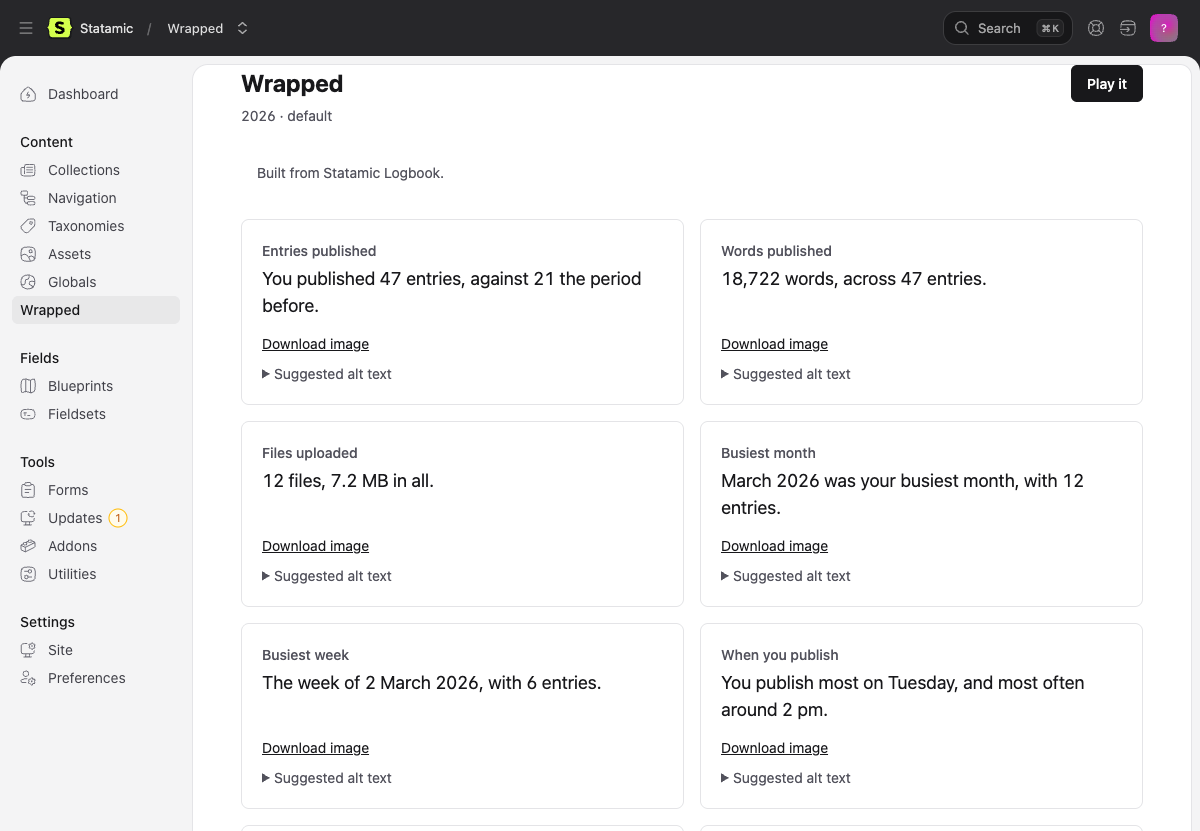
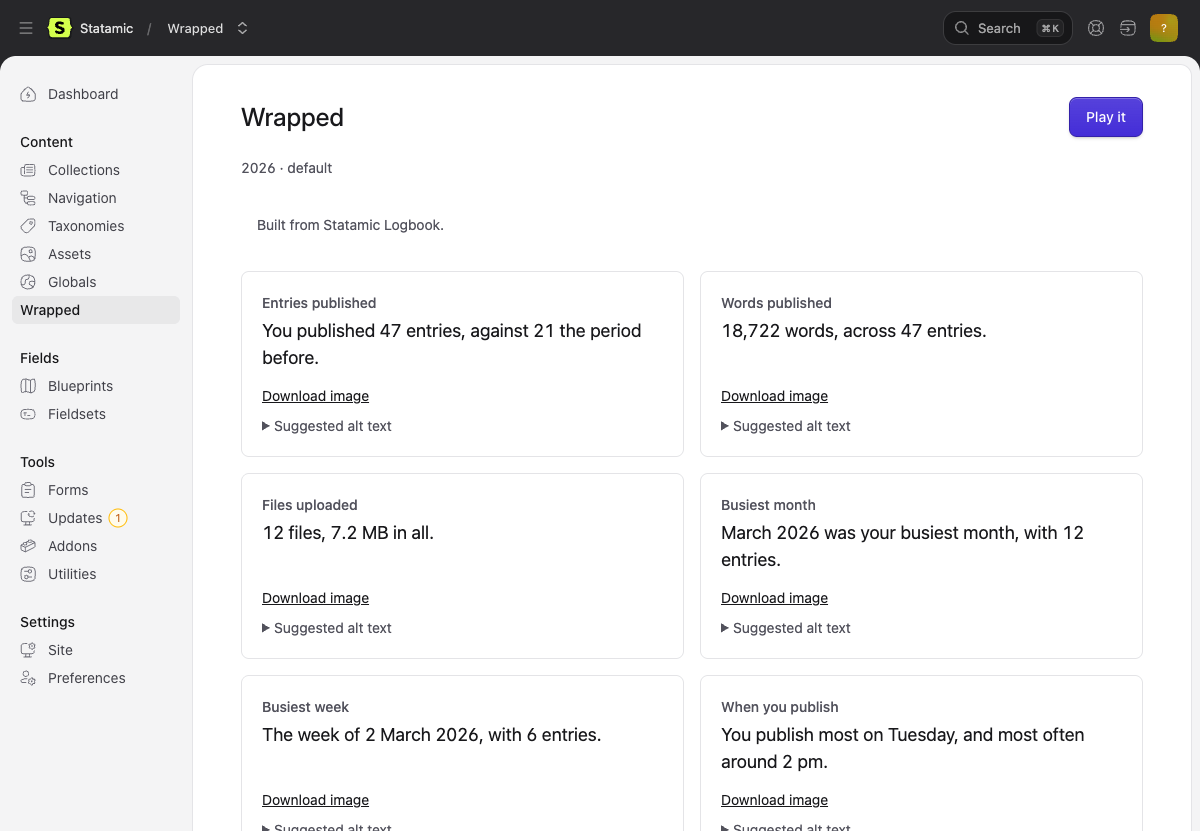
Use Statamic's own Header and Button on the Wrapped screen
The hand-styled button sat flush against the top bar and looked like a
visitor. Statamic exposes its Header and Button components to addons, which is
how its own screens get their title row and primary button; the page and the
video maker now use those and the lookalike CSS is gone.

Claude-Session: https://claude.ai/code/session_01Vbd6cMHAY7dJyoui365614

diff --git a/public/build/assets/cp-BsI9MVjX.js b/public/build/assets/cp-BsI9MVjX.js
@@ -1,0 +1,2 @@
+const We=window.Vue,{BaseTransition:da,BaseTransitionPropsValidators:ua,Comment:ca,DeprecationTypes:pa,EffectScope:ha,ErrorCodes:va,ErrorTypeStrings:ma,Fragment:K,KeepAlive:fa,ReactiveEffect:ya,Static:ga,Suspense:wa,Teleport:ba,Text:ka,TrackOpTypes:Ca,Transition:ze,TransitionGroup:Ma,TriggerOpTypes:_a,VueElement:Sa,__esModule:Ta,assertNumber:Pa,callWithAsyncErrorHandling:xa,callWithErrorHandling:Ia,camelize:Ra,capitalize:$a,cloneVNode:Ea,compatUtils:Fa,compile:Aa,computed:q,createApp:Da,createBlock:oe,createCommentVNode:E,createElementBlock:d,createElementVNode:a,createHydrationRenderer:La,createPropsRestProxy:Ba,createRenderer:Oa,createSSRApp:Ua,createSlots:Na,createStaticVNode:Va,createTextVNode:ee,createVNode:te,customRef:Ha,defineAsyncComponent:Wa,defineComponent:za,defineCustomElement:ja,defineEmits:qa,defineExpose:Ga,defineModel:Ka,defineOptions:Za,defineProps:Qa,defineSSRCustomElement:Ja,defineSlots:Xa,devtools:Ya,effect:er,effectScope:tr,getCurrentInstance:ar,getCurrentScope:rr,getCurrentWatcher:nr,getTransitionRawChildren:or,guardReactiveProps:sr,h:ir,handleError:lr,hasInjectionContext:dr,hydrate:ur,hydrateOnIdle:cr,hydrateOnInteraction:pr,hydrateOnMediaQuery:hr,hydrateOnVisible:vr,initCustomFormatter:mr,initDirectivesForSSR:fr,inject:yr,isMemoSame:gr,isProxy:wr,isReactive:br,isReadonly:kr,isRef:Cr,isRuntimeOnly:Mr,isShallow:_r,isVNode:Sr,markRaw:Tr,mergeDefaults:Pr,mergeModels:xr,mergeProps:Ir,nextTick:je,nodeOps:Rr,normalizeClass:se,normalizeProps:$r,normalizeStyle:Er,onActivated:Fr,onBeforeMount:Ar,onBeforeUnmount:ie,onBeforeUpdate:Dr,onDeactivated:Lr,onErrorCaptured:Br,onMounted:ge,onRenderTracked:Or,onRenderTriggered:Ur,onScopeDispose:Nr,onServerPrefetch:Vr,onUnmounted:Hr,onUpdated:Wr,onWatcherCleanup:zr,openBlock:i,patchProp:jr,popScopeId:qr,provide:Gr,proxyRefs:Kr,pushScopeId:Zr,queuePostFlushCb:Qr,reactive:Jr,readonly:Xr,ref:B,registerRuntimeCompiler:Yr,render:en,renderList:Y,renderSlot:tn,resolveComponent:an,resolveDirective:rn,resolveDynamicComponent:nn,resolveFilter:on,resolveTransitionHooks:sn,setBlockTracking:ln,setDevtoolsHook:dn,setTransitionHooks:un,shallowReactive:cn,shallowReadonly:pn,shallowRef:hn,ssrContextKey:vn,ssrUtils:mn,stop:fn,toDisplayString:w,toHandlerKey:yn,toHandlers:gn,toRaw:wn,toRef:bn,toRefs:kn,toValue:Cn,transformVNodeArgs:Mn,triggerRef:_n,unref:J,useAttrs:Sn,useCssModule:Tn,useCssVars:Pn,useHost:xn,useId:In,useModel:Rn,useSSRContext:$n,useShadowRoot:En,useSlots:Fn,useTemplateRef:An,useTransitionState:Dn,vModelCheckbox:we,vModelDynamic:Ln,vModelRadio:be,vModelSelect:Bn,vModelText:On,vShow:Un,version:Nn,warn:Vn,watch:le,watchEffect:Hn,watchPostEffect:Wn,watchSyncEffect:zn,withAsyncContext:jn,withCtx:ke,withDefaults:qn,withDirectives:ae,withKeys:Gn,withMemo:Kn,withModifiers:fe,withScopeId:Zn}=We,{Form:Qn,Head:Ce,Link:Jn,router:Xn,toggleArchitecturalBackground:Yn,useArchitecturalBackground:eo,useForm:to,usePage:ao,usePoll:ro}=__STATAMIC__.inertia,{Alert:no,AuthCard:oo,Avatar:so,Badge:io,Button:Me,ButtonGroup:lo,Calendar:uo,Card:co,CardList:po,CardListItem:ho,CardPanel:vo,CharacterCounter:mo,Checkbox:fo,CheckboxGroup:yo,CodeEditor:go,Combobox:wo,CommandPaletteItem:bo,ConfirmationModal:ko,ContentDirection:Co,useContentDirection:Mo,useUiDirection:_o,Context:So,ContextFooter:To,ContextHeader:Po,ContextItem:xo,ContextLabel:Io,ContextMenu:Ro,ContextSeparator:$o,CreateForm:Eo,DatePicker:Fo,DateRangePicker:Ao,Description:Do,DocsCallout:Lo,DragHandle:Bo,Dropdown:Oo,DropdownItem:Uo,DropdownLabel:No,DropdownMenu:Vo,DropdownSeparator:Ho,DropdownFooter:Wo,DropdownHeader:zo,Editable:jo,ErrorMessage:qo,EmptyStateItem:Go,EmptyStateMenu:Ko,Field:Zo,Header:qe,Heading:Qo,HoverCard:Jo,Icon:Xo,Input:Yo,InputGroup:es,InputGroupAppend:ts,InputGroupPrepend:as,Label:rs,Listing:ns,ListingCustomizeColumns:os,ListingFilters:ss,ListingHeaderCell:is,ListingPagination:ls,ListingPresets:ds,ListingPresetTrigger:us,ListingRowActions:cs,ListingSearch:ps,ListingTable:hs,ListingTableBody:vs,ListingTableHead:ms,ListingToggleAll:fs,LivePreview:ys,LivePreviewPopout:gs,MiddleEllipsis:ws,Modal:bs,ModalClose:ks,ModalTitle:Cs,Pagination:Ms,Panel:_s,PanelFooter:Ss,PanelHeader:Ts,Popover:Ps,PublishComponents:xs,PublishContainer:Is,publishContextKey:Rs,injectPublishContext:$s,PublishField:Es,PublishFields:Fs,PublishFieldsProvider:As,PublishForm:Ds,PublishLocalizations:Ls,PublishSections:Bs,PublishTabs:Os,Radio:Us,RadioGroup:Ns,Select:Vs,Separator:Hs,Slider:Ws,Skeleton:zs,SplitterGroup:js,SplitterPanel:qs,SplitterResizeHandle:Gs,StatusIndicator:Ks,Subheading:Zs,Switch:Qs,TabContent:Js,Stack:Xs,StackClose:Ys,StackHeader:ei,StackFooter:ti,StackContent:ai,Table:ri,TableCell:ni,TableColumn:oi,TableColumns:si,TableRow:ii,TableRows:li,TabList:di,TabProvider:ui,Tabs:ci,TabTrigger:pi,Text:hi,Textarea:vi,TimePicker:mi,TimezoneHoverCard:fi,Timezones:yi,ToggleGroup:gi,ToggleItem:wi,Widget:bi,registerIconSet:ki,registerIconSetFromStrings:Ci}=__STATAMIC__.ui;var de={};(function r(u,f,T,I){var O=!!(u.Worker&&u.Blob&&u.Promise&&u.OffscreenCanvas&&u.OffscreenCanvasRenderingContext2D&&u.HTMLCanvasElement&&u.HTMLCanvasElement.prototype.transferControlToOffscreen&&u.URL&&u.URL.createObjectURL),R=typeof Path2D=="function"&&typeof DOMMatrix=="function",g=(function(){if(!u.OffscreenCanvas)return!1;try{var t=new OffscreenCanvas(1,1),e=t.getContext("2d");e.fillRect(0,0,1,1);var n=t.transferToImageBitmap();e.createPattern(n,"no-repeat")}catch{return!1}return!0})();function b(){}function U(t){var e=f.exports.Promise,n=e!==void 0?e:u.Promise;return typeof n=="function"?new n(t):(t(b,b),null)}var A=(function(t,e){return{transform:function(n){if(t)return n;if(e.has(n))return e.get(n);var s=new OffscreenCanvas(n.width,n.height),c=s.getContext("2d");return c.drawImage(n,0,0),e.set(n,s),s},clear:function(){e.clear()}}})(g,new Map),W=(function(){var t=Math.floor(16.666666666666668),e,n,s={},c=0;return typeof requestAnimationFrame=="function"&&typeof cancelAnimationFrame=="function"?(e=function(p){var v=Math.random();return s[v]=requestAnimationFrame(function o(m){c===m||c+t-1<m?(c=m,delete s[v],p()):s[v]=requestAnimationFrame(o)}),v},n=function(p){s[p]&&cancelAnimationFrame(s[p])}):(e=function(p){return setTimeout(p,t)},n=function(p){return clearTimeout(p)}),{frame:e,cancel:n}})(),L=(function(){var t,e,n={};function s(c){function p(v,o){c.postMessage({options:v||{},callback:o})}c.init=function(o){var m=o.transferControlToOffscreen();c.postMessage({canvas:m},[m])},c.fire=function(o,m,C){if(e)return p(o,null),e;var P=Math.random().toString(36).slice(2);return e=U(function(M){function x($){$.data.callback===P&&(delete n[P],c.removeEventListener("message",x),e=null,A.clear(),C(),M())}c.addEventListener("message",x),p(o,P),n[P]=x.bind(null,{data:{callback:P}})}),e},c.reset=function(){c.postMessage({reset:!0});for(var o in n)n[o](),delete n[o]}}return function(){if(t)return t;if(!T&&O){var c=["var CONFETTI, SIZE = {}, module = {};","("+r.toString()+")(this, module, true, SIZE);","onmessage = function(msg) {","  if (msg.data.options) {","    CONFETTI(msg.data.options).then(function () {","      if (msg.data.callback) {","        postMessage({ callback: msg.data.callback });","      }","    });","  } else if (msg.data.reset) {","    CONFETTI && CONFETTI.reset();","  } else if (msg.data.resize) {","    SIZE.width = msg.data.resize.width;","    SIZE.height = msg.data.resize.height;","  } else if (msg.data.canvas) {","    SIZE.width = msg.data.canvas.width;","    SIZE.height = msg.data.canvas.height;","    CONFETTI = module.exports.create(msg.data.canvas);","  }","}"].join(`
+`);try{t=new Worker(URL.createObjectURL(new Blob([c])))}catch(p){return typeof console<"u"&&typeof console.warn=="function"&&console.warn("🎊 Could not load worker",p),null}s(t)}return t}})(),z={particleCount:50,angle:90,spread:45,startVelocity:45,decay:.9,gravity:1,drift:0,ticks:200,x:.5,y:.5,shapes:["square","circle"],zIndex:100,colors:["#26ccff","#a25afd","#ff5e7e","#88ff5a","#fcff42","#ffa62d","#ff36ff"],disableForReducedMotion:!1,scalar:1};function X(t,e){return e?e(t):t}function h(t){return t!=null}function l(t,e,n){return X(t&&h(t[e])?t[e]:z[e],n)}function k(t){return t<0?0:Math.floor(t)}function N(t,e){return Math.floor(Math.random()*(e-t))+t}function _(t){return parseInt(t,16)}function S(t){return t.map(F)}function F(t){var e=String(t).replace(/[^0-9a-f]/gi,"");return e.length<6&&(e=e[0]+e[0]+e[1]+e[1]+e[2]+e[2]),{r:_(e.substring(0,2)),g:_(e.substring(2,4)),b:_(e.substring(4,6))}}function Z(t){var e=l(t,"origin",Object);return e.x=l(e,"x",Number),e.y=l(e,"y",Number),e}function Se(t){t.width=document.documentElement.clientWidth,t.height=document.documentElement.clientHeight}function Te(t){var e=t.getBoundingClientRect();t.width=e.width,t.height=e.height}function Pe(t){var e=document.createElement("canvas");return e.style.position="fixed",e.style.top="0px",e.style.left="0px",e.style.pointerEvents="none",e.style.zIndex=t,e}function xe(t,e,n,s,c,p,v,o,m){t.save(),t.translate(e,n),t.rotate(p),t.scale(s,c),t.arc(0,0,1,v,o,m),t.restore()}function Ie(t){var e=t.angle*(Math.PI/180),n=t.spread*(Math.PI/180);return{x:t.x,y:t.y,wobble:Math.random()*10,wobbleSpeed:Math.min(.11,Math.random()*.1+.05),velocity:t.startVelocity*.5+Math.random()*t.startVelocity,angle2D:-e+(.5*n-Math.random()*n),tiltAngle:(Math.random()*(.75-.25)+.25)*Math.PI,color:t.color,shape:t.shape,tick:0,totalTicks:t.ticks,decay:t.decay,drift:t.drift,random:Math.random()+2,tiltSin:0,tiltCos:0,wobbleX:0,wobbleY:0,gravity:t.gravity*3,ovalScalar:.6,scalar:t.scalar,flat:t.flat}}function Re(t,e){e.x+=Math.cos(e.angle2D)*e.velocity+e.drift,e.y+=Math.sin(e.angle2D)*e.velocity+e.gravity,e.velocity*=e.decay,e.flat?(e.wobble=0,e.wobbleX=e.x+10*e.scalar,e.wobbleY=e.y+10*e.scalar,e.tiltSin=0,e.tiltCos=0,e.random=1):(e.wobble+=e.wobbleSpeed,e.wobbleX=e.x+10*e.scalar*Math.cos(e.wobble),e.wobbleY=e.y+10*e.scalar*Math.sin(e.wobble),e.tiltAngle+=.1,e.tiltSin=Math.sin(e.tiltAngle),e.tiltCos=Math.cos(e.tiltAngle),e.random=Math.random()+2);var n=e.tick++/e.totalTicks,s=e.x+e.random*e.tiltCos,c=e.y+e.random*e.tiltSin,p=e.wobbleX+e.random*e.tiltCos,v=e.wobbleY+e.random*e.tiltSin;if(t.fillStyle="rgba("+e.color.r+", "+e.color.g+", "+e.color.b+", "+(1-n)+")",t.beginPath(),R&&e.shape.type==="path"&&typeof e.shape.path=="string"&&Array.isArray(e.shape.matrix))t.fill(Ee(e.shape.path,e.shape.matrix,e.x,e.y,Math.abs(p-s)*.1,Math.abs(v-c)*.1,Math.PI/10*e.wobble));else if(e.shape.type==="bitmap"){var o=Math.PI/10*e.wobble,m=Math.abs(p-s)*.1,C=Math.abs(v-c)*.1,P=e.shape.bitmap.width*e.scalar,M=e.shape.bitmap.height*e.scalar,x=new DOMMatrix([Math.cos(o)*m,Math.sin(o)*m,-Math.sin(o)*C,Math.cos(o)*C,e.x,e.y]);x.multiplySelf(new DOMMatrix(e.shape.matrix));var $=t.createPattern(A.transform(e.shape.bitmap),"no-repeat");$.setTransform(x),t.globalAlpha=1-n,t.fillStyle=$,t.fillRect(e.x-P/2,e.y-M/2,P,M),t.globalAlpha=1}else if(e.shape==="circle")t.ellipse?t.ellipse(e.x,e.y,Math.abs(p-s)*e.ovalScalar,Math.abs(v-c)*e.ovalScalar,Math.PI/10*e.wobble,0,2*Math.PI):xe(t,e.x,e.y,Math.abs(p-s)*e.ovalScalar,Math.abs(v-c)*e.ovalScalar,Math.PI/10*e.wobble,0,2*Math.PI);else if(e.shape==="star")for(var y=Math.PI/2*3,D=4*e.scalar,V=8*e.scalar,H=e.x,G=e.y,Q=5,j=Math.PI/Q;Q--;)H=e.x+Math.cos(y)*V,G=e.y+Math.sin(y)*V,t.lineTo(H,G),y+=j,H=e.x+Math.cos(y)*D,G=e.y+Math.sin(y)*D,t.lineTo(H,G),y+=j;else t.moveTo(Math.floor(e.x),Math.floor(e.y)),t.lineTo(Math.floor(e.wobbleX),Math.floor(c)),t.lineTo(Math.floor(p),Math.floor(v)),t.lineTo(Math.floor(s),Math.floor(e.wobbleY));return t.closePath(),t.fill(),e.tick<e.totalTicks}function $e(t,e,n,s,c){var p=e.slice(),v=t.getContext("2d"),o,m,C=U(function(P){function M(){o=m=null,v.clearRect(0,0,s.width,s.height),A.clear(),c(),P()}function x(){T&&!(s.width===I.width&&s.height===I.height)&&(s.width=t.width=I.width,s.height=t.height=I.height),!s.width&&!s.height&&(n(t),s.width=t.width,s.height=t.height),v.clearRect(0,0,s.width,s.height),p=p.filter(function($){return Re(v,$)}),p.length?o=W.frame(x):M()}o=W.frame(x),m=M});return{addFettis:function(P){return p=p.concat(P),C},canvas:t,promise:C,reset:function(){o&&W.cancel(o),m&&m()}}}function ue(t,e){var n=!t,s=!!l(e||{},"resize"),c=!1,p=l(e,"disableForReducedMotion",Boolean),v=O&&!!l(e||{},"useWorker"),o=v?L():null,m=n?Se:Te,C=t&&o?!!t.__confetti_initialized:!1,P=typeof matchMedia=="function"&&matchMedia("(prefers-reduced-motion)").matches,M;function x(y,D,V){for(var H=l(y,"particleCount",k),G=l(y,"angle",Number),Q=l(y,"spread",Number),j=l(y,"startVelocity",Number),De=l(y,"decay",Number),Le=l(y,"gravity",Number),Be=l(y,"drift",Number),pe=l(y,"colors",S),Oe=l(y,"ticks",Number),he=l(y,"shapes"),Ue=l(y,"scalar"),Ne=!!l(y,"flat"),ve=Z(y),me=H,ne=[],Ve=t.width*ve.x,He=t.height*ve.y;me--;)ne.push(Ie({x:Ve,y:He,angle:G,spread:Q,startVelocity:j,color:pe[me%pe.length],shape:he[N(0,he.length)],ticks:Oe,decay:De,gravity:Le,drift:Be,scalar:Ue,flat:Ne}));return M?M.addFettis(ne):(M=$e(t,ne,m,D,V),M.promise)}function $(y){var D=p||l(y,"disableForReducedMotion",Boolean),V=l(y,"zIndex",Number);if(D&&P)return U(function(j){j()});n&&M?t=M.canvas:n&&!t&&(t=Pe(V),document.body.appendChild(t)),s&&!C&&m(t);var H={width:t.width,height:t.height};o&&!C&&o.init(t),C=!0,o&&(t.__confetti_initialized=!0);function G(){if(o){var j={getBoundingClientRect:function(){if(!n)return t.getBoundingClientRect()}};m(j),o.postMessage({resize:{width:j.width,height:j.height}});return}H.width=H.height=null}function Q(){M=null,s&&(c=!1,u.removeEventListener("resize",G)),n&&t&&(document.body.contains(t)&&document.body.removeChild(t),t=null,C=!1)}return s&&!c&&(c=!0,u.addEventListener("resize",G,!1)),o?o.fire(y,H,Q):x(y,H,Q)}return $.reset=function(){o&&o.reset(),M&&M.reset()},$}var re;function ce(){return re||(re=ue(null,{useWorker:!0,resize:!0})),re}function Ee(t,e,n,s,c,p,v){var o=new Path2D(t),m=new Path2D;m.addPath(o,new DOMMatrix(e));var C=new Path2D;return C.addPath(m,new DOMMatrix([Math.cos(v)*c,Math.sin(v)*c,-Math.sin(v)*p,Math.cos(v)*p,n,s])),C}function Fe(t){if(!R)throw new Error("path confetti are not supported in this browser");var e,n;typeof t=="string"?e=t:(e=t.path,n=t.matrix);var s=new Path2D(e),c=document.createElement("canvas"),p=c.getContext("2d");if(!n){for(var v=1e3,o=v,m=v,C=0,P=0,M,x,$=0;$<v;$+=2)for(var y=0;y<v;y+=2)p.isPointInPath(s,$,y,"nonzero")&&(o=Math.min(o,$),m=Math.min(m,y),C=Math.max(C,$),P=Math.max(P,y));M=C-o,x=P-m;var D=10,V=Math.min(D/M,D/x);n=[V,0,0,V,-Math.round(M/2+o)*V,-Math.round(x/2+m)*V]}return{type:"path",path:e,matrix:n}}function Ae(t){var e,n=1,s="#000000",c='"Apple Color Emoji", "Segoe UI Emoji", "Segoe UI Symbol", "Noto Color Emoji", "EmojiOne Color", "Android Emoji", "Twemoji Mozilla", "system emoji", sans-serif';typeof t=="string"?e=t:(e=t.text,n="scalar"in t?t.scalar:n,c="fontFamily"in t?t.fontFamily:c,s="color"in t?t.color:s);var p=10*n,v=""+p+"px "+c,o=new OffscreenCanvas(p,p),m=o.getContext("2d");m.font=v;var C=m.measureText(e),P=Math.ceil(C.actualBoundingBoxRight+C.actualBoundingBoxLeft),M=Math.ceil(C.actualBoundingBoxAscent+C.actualBoundingBoxDescent),x=2,$=C.actualBoundingBoxLeft+x,y=C.actualBoundingBoxAscent+x;P+=x+x,M+=x+x,o=new OffscreenCanvas(P,M),m=o.getContext("2d"),m.font=v,m.fillStyle=s,m.fillText(e,$,y);var D=1/n;return{type:"bitmap",bitmap:o.transferToImageBitmap(),matrix:[D,0,0,D,-P*D/2,-M*D/2]}}f.exports=function(){return ce().apply(this,arguments)},f.exports.reset=function(){ce().reset()},f.exports.create=ue,f.exports.shapeFromPath=Fe,f.exports.shapeFromText=Ae})((function(){return typeof window<"u"?window:typeof self<"u"?self:this||{}})(),de,!1);const ye=de.exports;de.exports.create;function Ge(r,u){var f;if(!r||u===0||(f=window.matchMedia)!=null&&f.call(window,"(prefers-reduced-motion: reduce)").matches)return!1;try{return window.localStorage.getItem(_e(r))!=="1"}catch{return!1}}function Ke(r){try{window.localStorage.setItem(_e(r),"1")}catch{}}function Ze(){const r={particleCount:90,spread:70,startVelocity:45,ticks:220,zIndex:9999};ye({...r,angle:60,origin:{x:0,y:.9}}),ye({...r,angle:120,origin:{x:1,y:.9}})}function _e(r){return`wrapped.celebrated.${r}`}const Qe={class:"wrapped-panel wrapped-video","aria-labelledby":"wrapped-video-heading"},Je={class:"wrapped-video__group"},Xe={class:"wrapped-video__list"},Ye={class:"wrapped-video__option"},et=["value"],tt={class:"wrapped-video__name"},at={key:0,class:"wrapped-video__badge"},rt={class:"wrapped-muted"},nt={class:"wrapped-video__readout","aria-live":"polite"},ot={key:0},st={key:1},it={key:2,class:"wrapped-video__warn"},lt={key:0,class:"wrapped-video__group"},dt={class:"wrapped-video__list"},ut={class:"wrapped-video__option"},ct=["value"],pt={class:"wrapped-video__name"},ht={key:0,class:"wrapped-muted"},vt=["aria-pressed","onClick"],mt={key:1,class:"wrapped-muted wrapped-video__unsupported"},ft={class:"wrapped-video__group"},yt={key:1,class:"wrapped-muted"},gt={class:"wrapped-muted wrapped-video__hint"},wt={key:1,class:"wrapped-details"},bt={class:"wrapped-muted"},kt={__name:"VideoMaker",props:{video:{type:Object,required:!0},videoUrl:{type:String,required:!0}},setup(r){const u=r,f=B(u.video.choices.filter(h=>h.selected).map(h=>h.handle)),T=q(()=>u.video.choices.filter(h=>f.value.includes(h.handle))),I=q(()=>{const h=[u.video.titleSeconds,...T.value.map(k=>k.seconds),u.video.titleSeconds],l=h.reduce((k,N)=>k+N,0)-(h.length-1)*u.video.crossfade;return Math.round(l)}),O=q(()=>I.value>30),R=B(u.video.defaultTrack),g=B(null),b=B(null),U=h=>{const l=document.createElement("audio"),k=h.mimeType==="audio/mp4"?'audio/mp4; codecs="opus"':h.mimeType;return l.canPlayType(k)!==""},A=h=>{if(g.value||(g.value=new Audio),b.value===h.handle){g.value.pause(),b.value=null;return}g.value.src=h.previewUrl,g.value.currentTime=0,g.value.play().then(()=>{b.value=h.handle}).catch(()=>{b.value=null}),g.value.onended=()=>{b.value=null}};ie(()=>{var h;return(h=g.value)==null?void 0:h.pause()}),le(R,()=>{var h;(h=g.value)==null||h.pause(),b.value=null});const W=q(()=>{const h=new URLSearchParams;return T.value.forEach(l=>h.append("cards[]",l.handle)),R.value&&h.set("track",R.value),`${u.videoUrl}?${h.toString()}`}),L=q(()=>[u.video.descriptionLead,...T.value.map(h=>`${h.heading}: ${h.body}`)].join(" ")),z=B(!1),X=async()=>{try{await navigator.clipboard.writeText(L.value),z.value=!0,setTimeout(()=>{z.value=!1},2e3)}catch{}};return(h,l)=>(i(),d("section",Qe,[l[5]||(l[5]=a("h2",{id:"wrapped-video-heading",class:"wrapped-video__title"},"Make a video",-1)),l[6]||(l[6]=a("p",{class:"wrapped-muted"}," One fact per screen, music underneath, sized for Reels, Stories and TikTok. Downloaded, never hosted. ",-1)),a("fieldset",Je,[l[2]||(l[2]=a("legend",{class:"wrapped-video__legend"},"Which cards",-1)),a("ul",Xe,[(i(!0),d(K,null,Y(r.video.choices,k=>(i(),d("li",{key:k.handle},[a("label",Ye,[ae(a("input",{type:"checkbox",value:k.handle,"onUpdate:modelValue":l[0]||(l[0]=N=>f.value=N)},null,8,et),[[we,f.value]]),a("span",null,[a("span",tt,w(k.heading),1),k.people?(i(),d("span",at," (names people)")):E("",!0),a("span",rt,w(k.body),1)])])]))),128))]),a("p",nt,[T.value.length===0?(i(),d("span",ot,"Pick at least one card.")):(i(),d("span",st,"About "+w(I.value)+" seconds.",1)),O.value?(i(),d("span",it," Over thirty; attention on short-video platforms runs out around there. ")):E("",!0)])]),r.video.tracks.length?(i(),d("fieldset",lt,[l[3]||(l[3]=a("legend",{class:"wrapped-video__legend"},"Music",-1)),a("ul",dt,[(i(!0),d(K,null,Y(r.video.tracks,k=>(i(),d("li",{key:k.handle,class:"wrapped-video__track"},[a("label",ut,[ae(a("input",{type:"radio",name:"wrapped-track",value:k.handle,"onUpdate:modelValue":l[1]||(l[1]=N=>R.value=N)},null,8,ct),[[be,R.value]]),a("span",null,[a("span",pt,w(k.name),1),k.description?(i(),d("span",ht,w(k.description),1)):E("",!0)])]),U(k)?(i(),d("button",{key:0,type:"button",class:"wrapped-link","aria-pressed":b.value===k.handle,onClick:N=>A(k)},w(b.value===k.handle?"Stop":"Preview"),9,vt)):(i(),d("span",mt,"Preview not supported in this browser"))]))),128))])])):E("",!0),a("div",ft,[T.value.length?(i(),oe(J(Me),{key:0,href:W.value,variant:"primary",text:"Download video"},null,8,["href"])):(i(),d("span",yt,"Pick a card to make a video.")),a("p",gt,"Takes about half a minute to make. The file is "+w(r.video.filename)+".",1)]),T.value.length?(i(),d("details",wt,[l[4]||(l[4]=a("summary",null,"Suggested description for posting",-1)),a("p",bt,w(L.value),1),a("button",{type:"button",class:"wrapped-link",onClick:X},w(z.value?"Copied":"Copy"),1)])):E("",!0)]))}},Ct={class:"wrapped"},Mt={key:0,class:"wrapped-subtitle"},_t={key:1,class:"wrapped-panel"},St={key:0},Tt={key:0,class:"wrapped-panel"},Pt={key:1,class:"wrapped-cards"},xt={class:"wrapped-card__heading"},It={class:"wrapped-card__body"},Rt={key:0,class:"wrapped-card__actions"},$t=["href"],Et={class:"wrapped-details"},Ft={class:"wrapped-muted"},At=["onClick"],Dt={key:3,class:"wrapped-summary"},Lt={class:"wrapped-details"},Bt={class:"wrapped-muted"},Ot={__name:"Wrapped",props:{site:{type:String,required:!0},snapshot:{type:Object,default:null}},setup(r){const u=r;ge(()=>{var b,U,A;const R=(b=u.snapshot)==null?void 0:b.periodKey,g=((A=(U=u.snapshot)==null?void 0:U.cards)==null?void 0:A.length)??0;Ge(R,g)&&(Ke(R),Ze())});const f=`${window.location.pathname.replace(/\/$/,"")}/image`,T=`${window.location.pathname.replace(/\/$/,"")}/video`,I=B(null),O=async(R,g)=>{try{await navigator.clipboard.writeText(g)}catch{return}I.value=R,setTimeout(()=>{I.value===R&&(I.value=null)},2e3)};return(R,g)=>(i(),d("div",Ct,[te(J(Ce),{title:"Wrapped"}),te(J(qe),{title:"Wrapped"},{default:ke(()=>[r.snapshot&&r.snapshot.cards.length?(i(),oe(J(Me),{key:0,href:r.snapshot.storyUrl,variant:"primary",text:"Play it"},null,8,["href"])):E("",!0)]),_:1}),r.snapshot?(i(),d("p",Mt,w(r.snapshot.label)+" · "+w(r.site),1)):E("",!0),r.snapshot?(i(),d(K,{key:2},[a("p",{class:se(["wrapped-notice",{"wrapped-notice--limited":r.snapshot.history.limited}])},[ee(w(r.snapshot.history.notice)+" ",1),r.snapshot.history.suggestion?(i(),d("span",St,w(r.snapshot.history.suggestion),1)):E("",!0)],2),r.snapshot.cards.length===0?(i(),d("div",Tt,[...g[2]||(g[2]=[a("h2",{class:"wrapped-panel__heading"},"No cards this time",-1)])])):(i(),d("dl",Pt,[(i(!0),d(K,null,Y(r.snapshot.cards,b=>(i(),d("div",{key:b.handle,class:"wrapped-card"},[a("dt",xt,w(b.heading),1),a("dd",It,w(b.body),1),r.snapshot.canExport?(i(),d("div",Rt,[a("a",{href:`${f}/${b.handle}`,class:"wrapped-link"},"Download image",8,$t),a("details",Et,[g[3]||(g[3]=a("summary",null,"Suggested alt text",-1)),a("p",Ft,w(b.alt),1),a("button",{type:"button",class:"wrapped-link",onClick:U=>O(b.handle,b.alt)},w(I.value===b.handle?"Copied":"Copy"),9,At)])])):E("",!0)]))),128))])),r.snapshot.video.available&&r.snapshot.cards.length?(i(),oe(kt,{key:2,video:r.snapshot.video,"video-url":T},null,8,["video"])):E("",!0),r.snapshot.canExport&&r.snapshot.cards.length?(i(),d("div",Dt,[a("a",{href:f,class:"wrapped-link"},"Download all of it as one image"),a("details",Lt,[g[4]||(g[4]=a("summary",null,"Suggested alt text",-1)),a("p",Bt,w(r.snapshot.summaryAlt),1),a("button",{type:"button",class:"wrapped-link",onClick:g[0]||(g[0]=b=>O("summary",r.snapshot.summaryAlt))},w(I.value==="summary"?"Copied":"Copy"),1)])])):E("",!0)],64)):(i(),d("div",_t,[...g[1]||(g[1]=[a("h2",{class:"wrapped-panel__heading"},"Nothing here yet",-1),a("p",{class:"wrapped-muted"},[ee(" Run "),a("code",null,"php please wrapped:generate"),ee(" to build one. ")],-1)])]))]))}},Ut=(r,u)=>{const f=r.__vccOpts||r;for(const[T,I]of u)f[T]=I;return f},Nt=["aria-valuenow","aria-valuemax","aria-valuetext"],Vt=["aria-label"],Ht={class:"story-heading"},Wt={class:"story-body"},zt={class:"story-title"},jt={key:0,class:"story-subtitle"},qt={class:"story-footer","aria-hidden":"true"},Gt={class:"story-footer__period"},Kt=["disabled"],Zt=["aria-expanded"],Qt=["href"],Jt=["disabled"],Xt={class:"story-music__toggle"},Yt={key:0,class:"story-music__note"},ea=["value"],ta={key:0,class:"story-music__desc"},aa={__name:"Story",props:{site:{type:String,required:!0},label:{type:String,required:!0},backUrl:{type:String,required:!0},frames:{type:Array,required:!0},tracks:{type:Array,default:()=>[]},defaultTrack:{type:String,default:null}},setup(r){var N;const u=r,f=B(0),T=q(()=>u.frames[f.value]),I=q(()=>f.value===u.frames.length-1),O=q(()=>f.value===0),R=()=>{I.value||f.value++},g=()=>{O.value||f.value--},b=B(null);le(f,async()=>{var _;await je(),(_=b.value)==null||_.focus()});const U=_=>{var S,F;(F=(S=_.target)==null?void 0:S.closest)!=null&&F.call(S,".story-controls, .story-music")||(["ArrowRight"," ","Enter"].includes(_.key)?(_.preventDefault(),R()):_.key==="ArrowLeft"?(_.preventDefault(),g()):_.key==="Escape"&&(window.location.href=u.backUrl))};ge(()=>window.addEventListener("keydown",U)),ie(()=>window.removeEventListener("keydown",U));const A=B(!1),W=B(u.defaultTrack),L=B(null),z=B(!1),X=_=>{const S=document.createElement("audio"),F=_.mimeType==="audio/mp4"?'audio/mp4; codecs="opus"':_.mimeType;return S.canPlayType(F)!==""},h=q(()=>u.tracks.filter(X));le([A,W],()=>{L.value||(L.value=new Audio,L.value.loop=!0);const _=h.value.find(S=>S.handle===W.value);if(!A.value||!_){L.value.pause();return}L.value.src!==_.url&&(L.value.src=_.url),L.value.play().catch(()=>{A.value=!1})}),ie(()=>{var _;return(_=L.value)==null?void 0:_.pause()});const k=((N=window.matchMedia)==null?void 0:N.call(window,"(prefers-reduced-motion: reduce)").matches)??!1;return(_,S)=>(i(),d("div",{class:se(["story",{"story--still":J(k)}])},[te(J(Ce),{title:`${r.label} · story`},null,8,["title"]),a("div",{class:"story-progress",role:"progressbar","aria-valuenow":f.value+1,"aria-valuemin":1,"aria-valuemax":r.frames.length,"aria-valuetext":`${f.value+1} of ${r.frames.length}`},[(i(!0),d(K,null,Y(r.frames,(F,Z)=>(i(),d("span",{key:Z,class:se(["story-progress__bar",{"is-done":Z<f.value,"is-current":Z===f.value}])},null,2))),128))],8,Nt),a("div",{ref_key:"stage",ref:b,class:"story-stage",tabindex:"-1",role:"region","aria-label":`Frame ${f.value+1} of ${r.frames.length}`,onClick:R},[te(ze,{name:J(k)?"":"story-fade",mode:"out-in"},{default:ke(()=>[(i(),d("div",{key:f.value,class:"story-frame"},[T.value.kind==="card"?(i(),d(K,{key:0},[a("p",Ht,w(T.value.heading),1),a("p",Wt,w(T.value.body),1)],64)):(i(),d(K,{key:1},[a("p",zt,w(T.value.title),1),T.value.subtitle?(i(),d("p",jt,w(T.value.subtitle),1)):E("",!0)],64))]))]),_:1},8,["name"])],8,Vt),a("div",qt,[a("span",Gt,w(r.label),1),a("span",null,w(r.site),1)]),a("div",{class:"story-controls",onClick:S[1]||(S[1]=fe(()=>{},["stop"]))},[a("button",{type:"button",class:"story-button",disabled:O.value,onClick:g,"aria-label":"Previous"},"‹",8,Kt),a("button",{type:"button",class:"story-button story-button--text",onClick:S[0]||(S[0]=F=>z.value=!z.value),"aria-expanded":z.value},w(A.value?"Music on":"Music off"),9,Zt),a("a",{href:r.backUrl,class:"story-button story-button--text"},"Done",8,Qt),a("button",{type:"button",class:"story-button",disabled:I.value,onClick:R,"aria-label":"Next"},"›",8,Jt)]),z.value?(i(),d("div",{key:0,class:"story-music",onClick:S[4]||(S[4]=fe(()=>{},["stop"]))},[a("label",Xt,[ae(a("input",{type:"checkbox","onUpdate:modelValue":S[2]||(S[2]=F=>A.value=F)},null,512),[[we,A.value]]),S[5]||(S[5]=ee(" Play music ",-1))]),h.value.length===0?(i(),d("p",Yt,"This browser cannot play the bundled tracks.")):E("",!0),(i(!0),d(K,null,Y(h.value,F=>(i(),d("label",{key:F.handle,class:"story-music__track"},[ae(a("input",{type:"radio",name:"story-track",value:F.handle,"onUpdate:modelValue":S[3]||(S[3]=Z=>W.value=Z)},null,8,ea),[[be,W.value]]),a("span",null,w(F.name),1),F.description?(i(),d("span",ta,w(F.description),1)):E("",!0)]))),128))])):E("",!0)],2))}},ra=Ut(aa,[["__scopeId","data-v-29649d1a"]]),na={key:0,class:"wrapped-widget"},oa={class:"wrapped-widget__title"},sa={class:"wrapped-widget__headline"},ia=["href"],la={__name:"WrappedWidget",props:{key:{type:String,required:!0},title:{type:String,required:!0},headline:{type:String,required:!0},url:{type:String,required:!0},nudge:{type:Boolean,default:!1}},setup(r){const u=r,f=`wrapped.dismissed.${u.key}`,I=B((()=>{try{return window.localStorage.getItem(f)==="1"}catch{return!1}})()),O=()=>{I.value=!0;try{window.localStorage.setItem(f,"1")}catch{}},R=q(()=>!u.nudge||!I.value);return(g,b)=>R.value?(i(),d("div",na,[a("div",null,[a("h2",oa,w(r.title),1),a("p",sa,w(r.headline),1),a("a",{href:r.url,class:"wrapped-widget__link"},"Take a look",8,ia)]),r.nudge?(i(),d("button",{key:0,type:"button",class:"wrapped-widget__dismiss","aria-label":"Dismiss",onClick:O}," × ")):E("",!0)])):E("",!0)}};Statamic.booting(()=>{Statamic.$inertia.register("wrapped::Wrapped",Ot),Statamic.$inertia.register("wrapped::Story",ra),Statamic.$components.register("wrapped-widget",la)});

diff --git a/public/build/assets/cp-Dx1rYIxi.css b/public/build/assets/cp-Dx1rYIxi.css
@@ -1,0 +1,1 @@
+.wrapped-video{margin-top:2.5rem}.wrapped-video__title{font-size:1.125rem;font-weight:500;margin:0}.wrapped-video__group{margin-top:1.5rem;padding:0;border:0}.wrapped-video__legend{font-size:.875rem;font-weight:500;padding:0}.wrapped-video__list{list-style:none;margin:.5rem 0 0;padding:0}.wrapped-video__list>li+li{margin-top:.5rem}.wrapped-video__option{display:flex;align-items:flex-start;gap:.75rem;cursor:pointer;flex:1}.wrapped-video__option>input{margin-top:.25rem}.wrapped-video__option .wrapped-muted{display:block;margin:0}.wrapped-video__name{font-weight:500}.wrapped-video__badge{margin-left:.5rem;font-size:.75rem;padding:.125rem .375rem;border-radius:.25rem;background:#fefce8;color:#713f12}.dark .wrapped-video__badge{background:#713f1233;color:#fef08a}.wrapped-video__track{display:flex;align-items:flex-start;gap:.75rem}.wrapped-video__unsupported{font-size:.75rem;flex-shrink:0}.wrapped-video__readout{font-size:.875rem;margin:.75rem 0 0}.wrapped-video__warn{color:#713f12}.dark .wrapped-video__warn{color:#fef08a}.wrapped-video__hint{font-size:.75rem;margin-top:.5rem}.wrapped{max-width:64rem;margin:0 auto}.wrapped-subtitle,.wrapped-muted{color:var(--color-gray-600);font-size:.875rem;margin:.25rem 0 0}.wrapped-subtitle{margin:-.75rem 0 1.5rem}.dark .wrapped-subtitle,.dark .wrapped-muted{color:var(--color-gray-400)}.wrapped-panel,.wrapped-card{padding:1.25rem;border:1px solid var(--color-gray-200);border-radius:.5rem}.dark .wrapped-panel,.dark .wrapped-card{border-color:var(--color-gray-700)}.wrapped-panel__heading{font-weight:500;margin:0 0 .5rem}.wrapped-notice{font-size:.875rem;margin:0 0 1.5rem;padding:.75rem 1rem;border-radius:.5rem;color:var(--color-gray-600)}.dark .wrapped-notice{color:var(--color-gray-400)}.wrapped-notice--limited{background:#fefce8;color:#713f12}.dark .wrapped-notice--limited{background:#713f1233;color:#fef08a}.wrapped-cards{display:grid;gap:1rem;margin:0}@media(min-width:768px){.wrapped-cards{grid-template-columns:1fr 1fr}}.wrapped-card{display:flex;flex-direction:column}.wrapped-card__heading{font-size:.875rem;font-weight:500;color:var(--color-gray-600)}.dark .wrapped-card__heading{color:var(--color-gray-400)}.wrapped-card__body{font-size:1.125rem;margin:.25rem 0 0;flex:1}.wrapped-card__actions{margin-top:.75rem}.wrapped-link{font-size:.875rem;text-decoration:underline;background:none;border:0;padding:0;color:inherit;cursor:pointer}.wrapped-details{margin-top:.5rem}.wrapped-details>summary{font-size:.875rem;cursor:pointer;color:var(--color-gray-600)}.dark .wrapped-details>summary{color:var(--color-gray-400)}.wrapped-details>p{margin-top:.5rem}.wrapped-details>button{margin-top:.5rem}.wrapped-summary{margin-top:1.5rem}.story[data-v-29649d1a]{position:fixed;top:0;right:0;bottom:0;left:0;z-index:50;background:#16161d;color:#f7f7f8;display:flex;flex-direction:column;-webkit-font-smoothing:antialiased}.story-progress[data-v-29649d1a]{display:flex;gap:6px;padding:16px 20px 0}.story-progress__bar[data-v-29649d1a]{flex:1;height:4px;border-radius:2px;background:#f7f7f833}.story-progress__bar.is-done[data-v-29649d1a],.story-progress__bar.is-current[data-v-29649d1a]{background:#f7f7f8}.story-stage[data-v-29649d1a]{flex:1;display:flex;align-items:center;justify-content:center;padding:48px 32px 120px;cursor:pointer;outline:none}.story-stage[data-v-29649d1a]:focus-visible{box-shadow:inset 0 0 0 3px #f7f7f880}.story-frame[data-v-29649d1a]{max-width:720px;width:100%}.story-heading[data-v-29649d1a]{font-size:clamp(14px,1.6vw,18px);font-weight:600;letter-spacing:.14em;text-transform:uppercase;color:#8b8b96;margin-bottom:20px}.story-body[data-v-29649d1a]{font-size:clamp(28px,5vw,52px);font-weight:700;line-height:1.15;letter-spacing:-.02em}.story-title[data-v-29649d1a]{font-size:clamp(36px,7vw,72px);font-weight:700;line-height:1.05;letter-spacing:-.03em}.story-subtitle[data-v-29649d1a]{font-size:clamp(16px,2vw,22px);color:#8b8b96;margin-top:16px}.story-footer[data-v-29649d1a]{position:absolute;left:32px;right:32px;bottom:88px;display:flex;justify-content:space-between;font-size:14px;color:#8b8b96;pointer-events:none}.story-footer__period[data-v-29649d1a]{font-weight:600;color:#f7f7f8}.story-controls[data-v-29649d1a]{position:absolute;left:0;right:0;bottom:0;display:flex;justify-content:center;gap:12px;padding:16px;background:linear-gradient(transparent,#16161de6)}.story-button[data-v-29649d1a]{min-width:44px;min-height:44px;padding:0 16px;border-radius:22px;border:1px solid rgba(247,247,248,.25);background:#f7f7f80f;color:#f7f7f8;font-size:22px;line-height:1;cursor:pointer;text-decoration:none;display:inline-flex;align-items:center;justify-content:center}.story-button--text[data-v-29649d1a]{font-size:14px}.story-button[data-v-29649d1a]:disabled{opacity:.35;cursor:default}.story-button[data-v-29649d1a]:focus-visible{outline:3px solid #f7f7f8;outline-offset:2px}.story-music[data-v-29649d1a]{position:absolute;left:50%;bottom:84px;transform:translate(-50%);width:min(360px,calc(100% - 32px));padding:16px;border-radius:12px;background:#22222b;border:1px solid rgba(247,247,248,.15);font-size:14px}.story-music__toggle[data-v-29649d1a],.story-music__track[data-v-29649d1a]{display:flex;gap:10px;align-items:baseline;padding:6px 0;cursor:pointer}.story-music__desc[data-v-29649d1a],.story-music__note[data-v-29649d1a]{color:#8b8b96;font-size:13px}.story-fade-enter-active[data-v-29649d1a],.story-fade-leave-active[data-v-29649d1a]{transition:opacity .35s ease}.story-fade-enter-from[data-v-29649d1a],.story-fade-leave-to[data-v-29649d1a]{opacity:0}.story--still .story-frame[data-v-29649d1a]{transition:none}.wrapped-widget{display:flex;align-items:flex-start;justify-content:space-between;gap:1rem;padding:1rem;border:1px solid var(--color-gray-200);border-radius:.5rem}.dark .wrapped-widget{border-color:var(--color-gray-700)}.wrapped-widget__title{font-weight:500;margin:0}.wrapped-widget__headline{font-size:.875rem;color:var(--color-gray-600);margin:.25rem 0 0}.dark .wrapped-widget__headline{color:var(--color-gray-400)}.wrapped-widget__link{display:inline-block;margin-top:.5rem;font-size:.875rem;text-decoration:underline}.wrapped-widget__dismiss{background:none;border:0;padding:0 .25rem;font-size:1.25rem;line-height:1;color:var(--color-gray-500);cursor:pointer}.wrapped-widget__dismiss:hover{color:var(--color-gray-800)}.dark .wrapped-widget__dismiss:hover{color:var(--color-gray-200)}

diff --git a/resources/js/pages/Wrapped.vue b/resources/js/pages/Wrapped.vue
@@ -1,6 +1,7 @@
 <script setup>
 import { onMounted, ref } from 'vue';
 import { Head } from '@statamic/cms/inertia';
+import { Button, Header } from '@statamic/cms/ui';
 import { celebrate, markCelebrated, shouldCelebrate } from '../celebrate.js';
 import VideoMaker from '../components/VideoMaker.vue';
 
@@ -49,21 +50,23 @@ const copyAlt = async (key, text) => {
     <div class="wrapped">
         <Head title="Wrapped" />
 
-        <header class="wrapped-header">
-            <div>
-                <h1 class="wrapped-title">Wrapped</h1>
-                <p v-if="snapshot" class="wrapped-subtitle">
-                    {{ snapshot.label }} &middot; {{ site }}
-                </p>
-            </div>
-
+        <!--
+            Statamic's own header and button, so this sits in the control panel
+            the way its native screens do rather than as a visitor.
+        -->
+        <Header title="Wrapped">
             <!-- The tap-through version: same facts, at the reader's pace. -->
-            <a
+            <Button
                 v-if="snapshot && snapshot.cards.length"
                 :href="snapshot.storyUrl"
-                class="wrapped-button"
-            >Play it</a>
-        </header>
+                variant="primary"
+                text="Play it"
+            />
+        </Header>
+
+        <p v-if="snapshot" class="wrapped-subtitle">
+            {{ snapshot.label }} &middot; {{ site }}
+        </p>
 
         <!--
             No snapshot at all. Not an error state: nobody has run the command
@@ -169,19 +172,6 @@ const copyAlt = async (key, text) => {
     margin: 0 auto;
 }
 
-.wrapped-header {
-    display: flex;
-    align-items: flex-start;
-    justify-content: space-between;
-    gap: 1rem;
-    margin-bottom: 1.5rem;
-}
-
-.wrapped-title {
-    font-size: 1.5rem;
-    font-weight: 700;
-    margin: 0;
-}
 
 .wrapped-subtitle,
 .wrapped-muted {
@@ -190,26 +180,15 @@ const copyAlt = async (key, text) => {
     margin: 0.25rem 0 0;
 }
 
+.wrapped-subtitle {
+    margin: -0.75rem 0 1.5rem;
+}
+
 .dark .wrapped-subtitle,
 .dark .wrapped-muted {
     color: var(--color-gray-400);
 }
 
-.wrapped-button {
-    flex-shrink: 0;
-    padding: 0.5rem 1rem;
-    border-radius: 0.375rem;
-    background: var(--color-gray-900);
-    color: var(--color-white, #fff);
-    font-size: 0.875rem;
-    font-weight: 500;
-    text-decoration: none;
-}
-
-.dark .wrapped-button {
-    background: var(--color-white, #fff);
-    color: var(--color-gray-900);
-}
 
 .wrapped-panel,
 .wrapped-card {

diff --git a/resources/js/components/VideoMaker.vue b/resources/js/components/VideoMaker.vue
@@ -1,5 +1,6 @@
 <script setup>
 import { computed, onBeforeUnmount, ref, watch } from 'vue';
+import { Button } from '@statamic/cms/ui';
 
 const props = defineProps({
     video: { type: Object, required: true },
@@ -162,7 +163,7 @@ const copyDescription = async () => {
 
         <!-- Download -->
         <div class="wrapped-video__group">
-            <a v-if="chosen.length" :href="downloadUrl" class="wrapped-button">Download video</a>
+            <Button v-if="chosen.length" :href="downloadUrl" variant="primary" text="Download video" />
             <span v-else class="wrapped-muted">Pick a card to make a video.</span>
             <p class="wrapped-muted wrapped-video__hint">Takes about half a minute to make. The file is {{ video.filename }}.</p>
         </div>

diff --git a/PROGRESS.md b/PROGRESS.md
@@ -1001,3 +1001,11 @@ Mistake of my own while fixing it: a scripted replace matched the *inner* `</tem
 and left the outer one dangling. Build failed loudly, so it cost a minute, not a release.
 
 - Verified: `vendor/bin/pest` 415 passed · `vendor/bin/pint --test` clean · `vendor/bin/phpstan analyse` no errors.
+
+### Fix — "Play it" looked like a visitor (done)
+Owner's screenshot: my hand-styled black pill sat flush against the top bar and looked out of place.
+**Statamic exposes its own `Header` and `Button` to addons** (`@statamic/cms/ui`), which is how its native
+screens get their title row and their blue primary button. Swapped both in — the page header, and the
+video maker's download — and deleted my own button CSS. Now the screen sits in the CP the way core screens
+do. Lesson alongside the utilities one: **for chrome the CP already has, use the CP's component, not a
+lookalike.** Screenshot refreshed.
